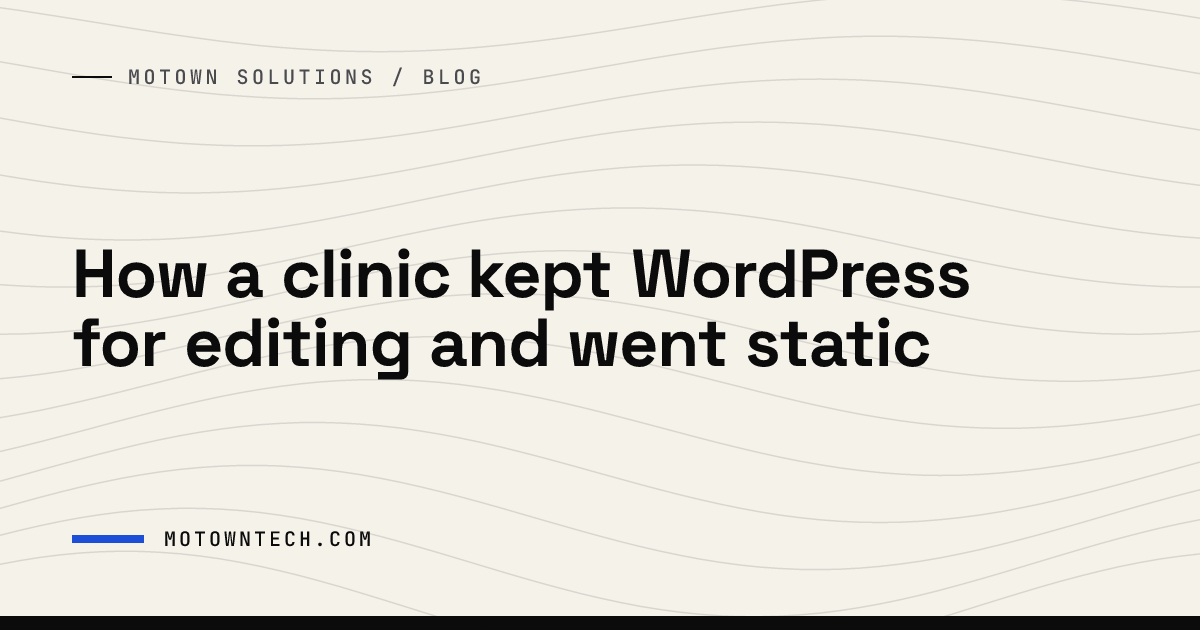
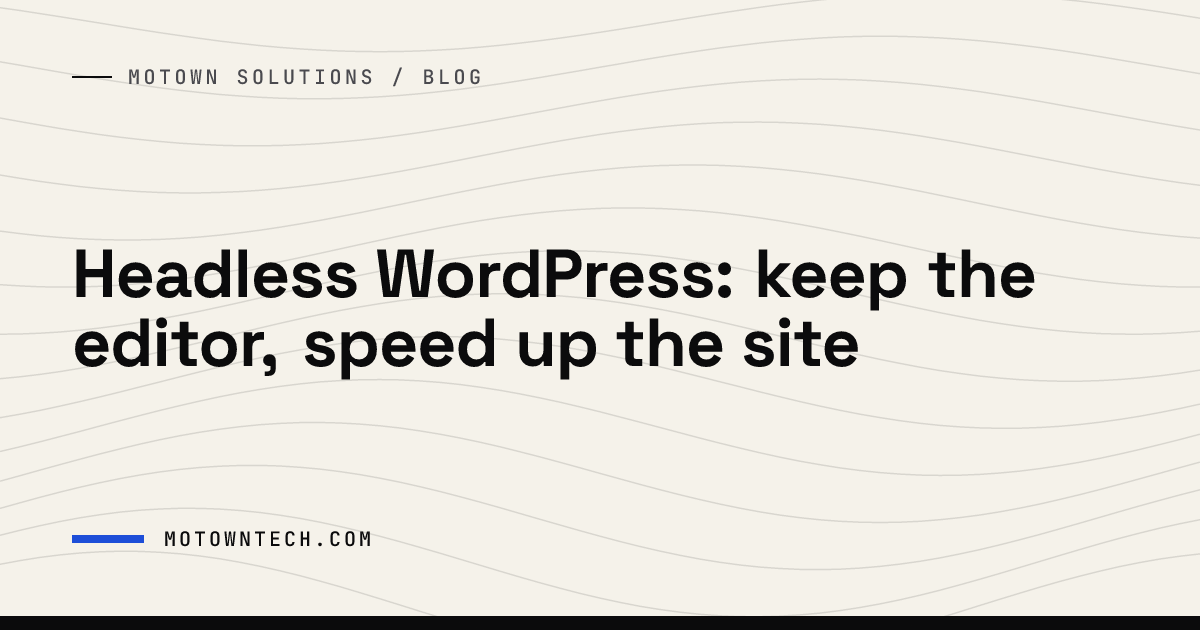
copy(blog): rewrite the headless-wordpress-clinic post around the reader's problem

Changed region(s): [[0.0617, 0.3921, 0.8633, 0.6032]]

diff --git a/src/content/blog/headless-wordpress-clinic.md b/src/content/blog/headless-wordpress-clinic.md
@@ -1,52 +1,58 @@
 ---
-title: "How a clinic kept WordPress for editing and went static"
+title: "Headless WordPress: keep the editor, speed up the site"
 image: ../../assets/blog/headless-wordpress-clinic-image.jpg
 imageAlt: "An empty blue stage with ropes and pulleys visible backstage"
 cover: ../../assets/blog/headless-wordpress-clinic.png
-description: "An endoscopy center kept WordPress for its staff and moved it out of the way of patients. Here is how publishing works now, and why the site stays up."
+description: "Staff like WordPress but the site is slow or fragile? Keep WordPress for editing and take it out of the visitor's path. Here is what that involves."
 pubDate: 2026-10-14
 relatedPages: ["/case-studies/endoscopy-center", "/migrate-from-wordpress"]
 category: case-stories
 ---
 
-An outpatient endoscopy center kept WordPress for editing and moved its public site to static HTML, which patients load without touching WordPress. Staff still publish the way they always have, and the public pages keep loading even when WordPress is down.
+If your staff are happy editing in WordPress and the trouble is how the site behaves for visitors, you may not need to leave WordPress at all. You can keep it as the place people edit and stop it from assembling pages for every visitor. Pages load faster and stay up when WordPress has a bad day, and nobody has to learn a new tool.
 
-Before the rebuild, the site was a full WordPress install. Every time a patient opened a page, PHP, a database and a stack of plugins put that page together on the spot. The staff liked editing it. Nobody liked how it loaded. Replacing WordPress would have fixed the speed and taken away the one tool the office already knew, so we kept it for editing and changed everything in front of it.
+## Work out which problem you have
 
-## WordPress only runs when someone publishes
+Complaints about a WordPress site tend to fall into two groups. Some are about running it, like plugin updates nobody trusts and upkeep that eats into the week. Others are about what visitors get, which means slow pages and a site that breaks when something on the server misbehaves.
 
-The public site is now plain HTML pages, built ahead of time and served from Appwrite Sites on infrastructure we run. WordPress still holds all the content: pages, provider bios, procedures and the navigation menu. The site reads that content while it builds and then serves finished files. A patient loading a page never touches WordPress at all.
+If most of your complaints are in the first group, read [when it's time to leave WordPress](/blog/when-to-leave-wordpress). If they're mostly in the second and your editors like the tool, replacing it is usually the expensive answer, because it takes away the one thing that works.
 
-That one decision changes what can go wrong. A slow database, a plugin update or an expiring certificate on the editing side used to slow down or break the public site. Now each of those is an inconvenience for staff, and patients don't notice. The CMS could be down all week and the public pages would keep loading.
+The slowness and fragility have a specific cause. A standard WordPress install builds each page on the spot, every time someone opens it, with PHP, a database and whatever plugins you run. Anything that goes wrong in that chain goes wrong in front of a visitor.
 
-There is a cost, and we tell clients about it up front. The build does need WordPress reachable while it runs. If WordPress is down during a build, the build fails and the previous version of the site stays up. For a medical practice, that is the failure you want.
+## Build the pages before anyone asks for them
 
-## Publishing is still one button
+The alternative is to keep WordPress as the place content lives and build the public site from it ahead of time. The site reads pages, menus and everything else from WordPress while it builds, then serves plain HTML files. Visitors load those files and never touch WordPress. This is usually called headless WordPress.
 
-The whole point of keeping WordPress was that nobody on staff would have to learn anything new. So publishing works the way it always did. An editor changes a page, a provider bio or a menu item in WordPress and presses publish.
+An outpatient endoscopy center we worked with was in exactly this spot. Staff liked editing their site. Nobody liked how it loaded for patients. After the change, WordPress still holds the pages, provider bios, procedures and the navigation menu, and staff edit them the way they always did. A slow database, a plugin update or an expiring certificate on the editing side is now an inconvenience for staff that patients never see. WordPress could be down all week and the public pages would keep loading.
 
-Behind that button, a small plugin we wrote notices that published content changed. It waits ninety seconds so that a burst of edits turns into one job. Ten quick saves produce one rebuild. Then it asks the host to rebuild the site, and the new pages replace the old ones only once the whole set is ready. No developer and no deploy button are involved, and the editor doesn't need to know any of it is happening.
+## Publishing has to stay one button
 
-## A build that stops when something looks wrong
+If every edit now needs a developer to run a deploy, you have swapped a slow site for a slow publishing process. Before you agree to this setup, ask exactly what happens when an editor presses publish.
 
-Moving WordPress out of the way of patients moves the risk into the build, so most of the engineering went there.
+At the clinic, the answer is that nothing changes for the editor. A small plugin notices the published change, waits ninety seconds so that ten quick saves turn into one rebuild, and asks the host to build the site again. The new pages replace the old ones only once the whole set is ready. The trade is that an edit takes a minute or two to appear.
 
-Every piece of content WordPress sends is checked before it's used. If a field gets renamed or a content type changes shape, the build stops with a clear error and the live site stays as it was. A production build never fills a gap with placeholder text. If something can't be fetched, the page comes out as a not-found page, and those pages are kept out of search results.
+## The risk moves into the build
 
-HTML written in the editor is cleaned on the way in, with scripts, forms and embedded frames stripped out. Every change to the code is also built against a mock of the WordPress API before it goes anywhere near the live site, so a broken build never reaches patients.
+There is a cost, and it's worth knowing up front. The build needs WordPress reachable while it runs. If WordPress is down during a build, the build fails and the previous version of the site stays up. For a medical practice, that's the failure you want.
 
-## The small things editors used to fix by hand
+That only holds if the build is strict about what it accepts. Some things worth checking with whoever builds it for you:
 
-A few problems disappeared because the build now handles them:
+- Content from WordPress is checked before it's used, so a renamed field stops the build with a clear error and the live site stays as it was.
+- A missing piece of content never gets filled with placeholder text that looks real.
+- HTML from the editor is cleaned on the way in, with scripts, forms and embedded frames stripped out.
+- Every code change is built against a test copy of the WordPress content before it goes near the live site.
 
-- Images left over from the old site used to break or shift the page as they loaded. Old image addresses are now rewritten during the build, and every image gets its size set in advance and loads only when needed.
-- Meta descriptions, the summaries that appear in search results, used to be written by hand when they were written at all. Each page now gets one generated from its own content.
-- The navigation menu still comes from WordPress, so editors stay in control of it.
-
-We also did an accessibility pass covering contrast, keyboard navigation, a working skip link and reduced motion, and left automated tests in place so those fixes stay fixed.
+When something looks wrong, the worst outcome should be yesterday's site staying up a little longer.
 
 ## When this approach fits
 
-If your team is comfortable in WordPress and the problem is how the site performs for visitors, replacing the CMS is usually the expensive answer. Keeping it for editing and taking it out of the path of every visitor gets the speed and reliability without retraining anyone.
+It suits you if most of these are true:
 
-The [endoscopy center case study](/case-studies/endoscopy-center) has the full build, including the technical decisions. If your site is on WordPress and you're weighing your options, start with [when it's time to leave WordPress](/blog/when-to-leave-wordpress) and how we approach [moving off it](/migrate-from-wordpress), or [tell us what your team edits today](/contact).
+- Your editors are comfortable in WordPress and you don't want to retrain them.
+- The complaints are about speed and outages for visitors more than about editing.
+- The public site is mostly pages people read, without shopping carts or logged-in areas that need WordPress running for each visitor.
+- Waiting a minute or two for an edit to go live is acceptable.
+
+It also tends to clear up small chores along the way. At the clinic, old image links that used to break are now fixed during the build, and each page gets a search description written from its own content.
+
+The [endoscopy center case study](/case-studies/endoscopy-center) has the full build, including the technical decisions. If you're weighing your options, see how we approach [moving off WordPress](/migrate-from-wordpress), or [tell us what your team edits today](/contact).

diff --git a/linkedin/headless-wordpress-clinic/post.md b/linkedin/headless-wordpress-clinic/post.md
@@ -2,27 +2,29 @@
 
 ## Post 1: native text
 
-An endoscopy center's staff liked editing their website in WordPress. Nobody liked how it loaded for patients.
+If your staff like editing in WordPress and the problem is how the site loads for visitors, you may not need to leave WordPress.
 
-The usual fix is to replace WordPress. That also takes away the one tool the office already knows. We kept WordPress for editing and moved it out of the way of every patient.
+A standard WordPress site builds every page on the spot, each time someone opens it, with PHP, a database and a stack of plugins. Anything that goes wrong in that chain goes wrong in front of a visitor.
 
-The public site is now plain pages, built ahead of time. WordPress holds the content and only runs when someone publishes. A patient loading a page never touches it.
+You can keep WordPress as the place your team edits and build the public site from it ahead of time. Visitors load plain pages and never touch WordPress. This is usually called headless WordPress.
 
-That changes what can go wrong. A slow database or a plugin update on the editing side used to slow down the public site. Now it's an inconvenience for staff, and patients don't notice.
+An endoscopy center we worked with did this. Staff still edit the way they always did. A plugin update or a slow database on the editing side is now a staff inconvenience, and patients never see it.
 
-Publishing still works the way it always did. An editor presses publish, a small plugin waits ninety seconds so a burst of edits becomes one job, and the site rebuilds. If a build fails, the previous version stays up.
+Two questions to ask before you agree to this setup:
 
-The build also checks every piece of content before using it, so a renamed field stops the build with a clear error and the live site stays as it was.
+What happens when an editor presses publish? It should still be one button. At the clinic, a small plugin waits ninety seconds so ten quick saves become one rebuild.
 
-If your team is happy in WordPress and the problem is how the site performs, replacing the CMS is usually the expensive answer.
+What happens when the build hits a problem? It should stop with a clear error and leave the current site up. A build that fills gaps with placeholder text will eventually publish a wrong page.
+
+If your editors are happy and your visitors aren't, replacing the CMS is usually the expensive answer.
 
 Full write-up in the comments.
 
 ## Post 2: carousel (~/Documents/Motown Carousels/headless-wordpress-clinic.pdf)
 
-Document title: WordPress for editors, static pages for patients
+Document title: Headless WordPress: keep the editor, speed up the site
 
-How an endoscopy center kept WordPress for its staff and stopped patients from waiting on it. Swipe through, and the full write-up is in the comments.
+Your team likes WordPress, but the site is slow or keeps breaking. You can keep it for editing and take it out of the visitor's path. Swipe through, and the full write-up is in the comments.
 
 ## First comment (both posts)
 
